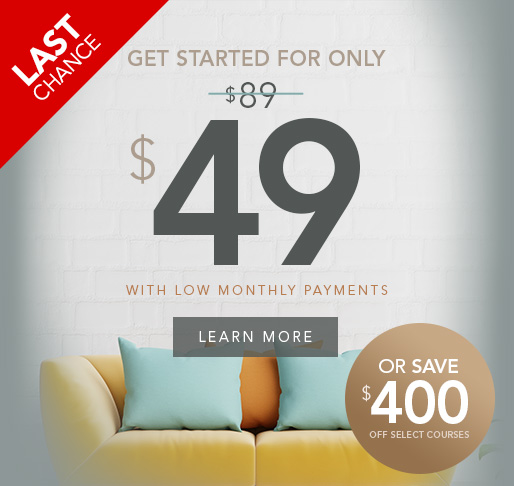
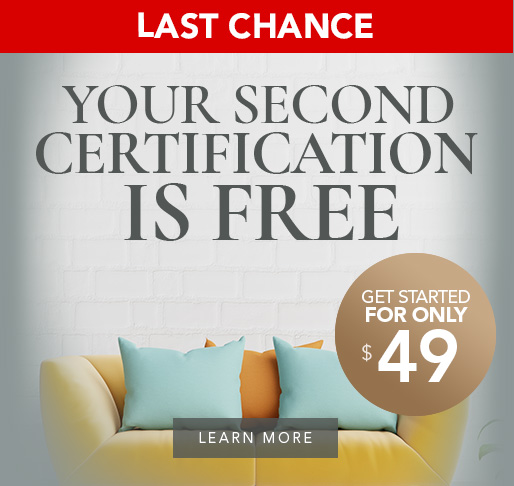
Add BOGO promo code to design and add student cart images

diff --git a/src/pages/event/student/index.tsx b/src/pages/event/student/index.tsx
@@ -5,22 +5,26 @@ import { useDateContext } from '../../../hooks/useDateContext';
 import { dateOverride } from '../../../lib/dateOverride';
 import { courseGroups } from '../courseGroups';
 import { Guarantee } from '../Guarantee';
+import { Promo } from './Promo';
 
 const Student: React.FC = () => {
   const serverDate = useDateContext();
   const date = dateOverride() ?? serverDate;
 
   return (
-    <Form
-      courseGroups={courseGroups}
-      school="QC Event School"
-      guarantee={() => <Guarantee />}
-      agreementLink="https://www.qceventplanning.com/enrollment-agreement.html"
-      agreementLinkGB="https://www.qceventplanning.com/enrollment-agreement-gb.html"
-      successLink="https://www.qceventplanning.com/welcome-to-the-school/"
-      student={true}
-      showPromoCodeInput={date.getTime() >= Date.UTC(2021, 5, 9, 13)}
-    />
+    <>
+      <Promo />
+      <Form
+        courseGroups={courseGroups}
+        school="QC Event School"
+        guarantee={() => <Guarantee />}
+        agreementLink="https://www.qceventplanning.com/enrollment-agreement.html"
+        agreementLinkGB="https://www.qceventplanning.com/enrollment-agreement-gb.html"
+        successLink="https://www.qceventplanning.com/welcome-to-the-school/"
+        student={true}
+        showPromoCodeInput={date.getTime() >= Date.UTC(2021, 5, 9, 13)}
+      />
+    </>
   );
 };
 

diff --git a/src/pages/makeup/student/index.tsx b/src/pages/makeup/student/index.tsx
@@ -3,24 +3,28 @@ import React from 'react';
 import { Form } from '../../../components/Form';
 import { courseGroups } from '../courseGroups';
 import { Guarantee } from '../Guarantee';
+import { Promo } from './Promo';
 
 const additionalOptions = {
   studentDiscount: true,
 };
 
 const Student: React.FC = () => (
-  <Form
-    courseGroups={courseGroups}
-    school="QC Makeup Academy"
-    guarantee={() => <Guarantee />}
-    student={true}
-    agreementLink="https://www.qcmakeupacademy.com/enrollment-agreement.html"
-    agreementLinkGB="https://www.qcmakeupacademy.com/enrollment-agreement-gb.html"
-    successLink="https://www.qcmakeupacademy.com/welcome-to-the-school/"
-    showDynamicCourseDescriptions={true}
-    showPromoCodeInput={true}
-    additionalOptions={additionalOptions}
-  />
+  <>
+    <Promo />
+    <Form
+      courseGroups={courseGroups}
+      school="QC Makeup Academy"
+      guarantee={() => <Guarantee />}
+      student={true}
+      agreementLink="https://www.qcmakeupacademy.com/enrollment-agreement.html"
+      agreementLinkGB="https://www.qcmakeupacademy.com/enrollment-agreement-gb.html"
+      successLink="https://www.qcmakeupacademy.com/welcome-to-the-school/"
+      showDynamicCourseDescriptions={true}
+      showPromoCodeInput={true}
+      additionalOptions={additionalOptions}
+    />
+  </>
 );
 
 export default Student;

diff --git a/src/pages/wellness/index.tsx b/src/pages/wellness/index.tsx
@@ -11,6 +11,7 @@ import { Header } from './Header';
 
 import './style.scss';
 
+const Student = React.lazy(async () => import('./student'));
 const Wellness150Off = React.lazy(async () => import('./150-off'));
 const Wellness100Off = React.lazy(async () => import('./100-off'));
 const Wellness50Off = React.lazy(async () => import('./50-off'));
@@ -40,6 +41,7 @@ const Wellness: React.FC = () => {
       </Helmet>
       <Header countryCode={address.countryCode} link={headerLink(location.pathname)} />
       <Routes>
+        <Route path="/student/" element={<Student />} />
         <Route path="/150-off" element={<Suspense fallback={<></>}><Wellness150Off currencyCode={currencyCode} /></Suspense>} />
         <Route path="/100-off" element={<Suspense fallback={<></>}><Wellness100Off currencyCode={currencyCode} /></Suspense>} />
         <Route path="/50-off" element={<Suspense fallback={<></>}><Wellness50Off currencyCode={currencyCode} /></Suspense>} />

diff --git a/src/pages/wellness/student/index.tsx b/src/pages/wellness/student/index.tsx
@@ -5,19 +5,19 @@ import { courseGroups } from '../courseGroups';
 import { Guarantee } from '../Guarantee';
 import { Promo } from './Promo';
 
-const Student: React.FC = () => (
+const Default: React.FC = () => (
   <>
     <Promo />
     <Form
       courseGroups={courseGroups}
-      school="QC Design School"
+      school="QC Wellness Studies"
       guarantee={() => <Guarantee />}
-      agreementLink="https://www.qcdesignschool.com/enrollment-agreement.html"
-      agreementLinkGB="https://www.qcdesignschool.com/enrollment-agreement-gb.html"
-      successLink="https://www.qcdesignschool.com/welcome-to-the-school/"
+      agreementLink="https://www.qcwellnessstudies.com/enrollment-agreement"
+      agreementLinkGB="https://www.qcwellnessstudies.com/enrollment-agreement-gb"
+      successLink="https://www.qcwellnessstudies.com/welcome-to-the-school/"
       student={true}
     />
   </>
 );
 
-export default Student;
+export default Default;

diff --git a/src/pages/design/student/Promo.tsx b/src/pages/design/student/Promo.tsx
@@ -1,0 +1,33 @@
+import React, { ReactElement } from 'react';
+import { useScreenWidthContext } from '../../../hooks/useScreenWidthContext';
+
+export const Promo = (): ReactElement => {
+  const screenWidth = useScreenWidthContext();
+  const desktop = screenWidth >= 576;
+
+  let image: string;
+  let width: number;
+  let height: number;
+
+  if (desktop) {
+    image = require('./desktop.jpg');
+  } else {
+    image = require('./mobile.jpg');
+  }
+
+  if (desktop) {
+    width = 1060;
+    height = 401;
+  } else {
+    width = 600;
+    height = 390;
+  }
+
+  return (
+    <section id="promoSection" style={{ backgroundColor: '#b3b4b8', padding: 0 }}>
+      <div className="container text-center px-0">
+        <img src={image} width={width} height={height} className="img-fluid d-block mx-auto" alt="Special Offer" />
+      </div>
+    </section>
+  );
+};

diff --git a/src/pages/event/student/Promo.tsx b/src/pages/event/student/Promo.tsx
@@ -1,0 +1,33 @@
+import React, { ReactElement } from 'react';
+import { useScreenWidthContext } from '../../../hooks/useScreenWidthContext';
+
+export const Promo = (): ReactElement => {
+  const screenWidth = useScreenWidthContext();
+  const desktop = screenWidth >= 576;
+
+  let image: string;
+  let width: number;
+  let height: number;
+
+  if (desktop) {
+    image = require('./desktop.jpg');
+  } else {
+    image = require('./mobile.jpg');
+  }
+
+  if (desktop) {
+    width = 1060;
+    height = 401;
+  } else {
+    width = 600;
+    height = 390;
+  }
+
+  return (
+    <section id="promoSection" style={{ backgroundColor: '#727274', padding: 0 }}>
+      <div className="container text-center px-0">
+        <img src={image} width={width} height={height} className="img-fluid d-block mx-auto" alt="Special Offer" />
+      </div>
+    </section>
+  );
+};

diff --git a/src/pages/makeup/student/Promo.tsx b/src/pages/makeup/student/Promo.tsx
@@ -1,0 +1,33 @@
+import React, { ReactElement } from 'react';
+import { useScreenWidthContext } from '../../../hooks/useScreenWidthContext';
+
+export const Promo = (): ReactElement => {
+  const screenWidth = useScreenWidthContext();
+  const desktop = screenWidth >= 576;
+
+  let image: string;
+  let width: number;
+  let height: number;
+
+  if (desktop) {
+    image = require('./desktop.jpg');
+  } else {
+    image = require('./mobile.jpg');
+  }
+
+  if (desktop) {
+    width = 1060;
+    height = 401;
+  } else {
+    width = 600;
+    height = 390;
+  }
+
+  return (
+    <section id="promoSection" style={{ backgroundColor: '#2b2b2b', padding: 0 }}>
+      <div className="container text-center px-0">
+        <img src={image} width={width} height={height} className="img-fluid d-block mx-auto" alt="Special Offer" />
+      </div>
+    </section>
+  );
+};

diff --git a/src/pages/pet/student/Promo.tsx b/src/pages/pet/student/Promo.tsx
@@ -1,0 +1,33 @@
+import React, { ReactElement } from 'react';
+import { useScreenWidthContext } from '../../../hooks/useScreenWidthContext';
+
+export const Promo = (): ReactElement => {
+  const screenWidth = useScreenWidthContext();
+  const desktop = screenWidth >= 576;
+
+  let image: string;
+  let width: number;
+  let height: number;
+
+  if (desktop) {
+    image = require('./desktop.jpg');
+  } else {
+    image = require('./mobile.jpg');
+  }
+
+  if (desktop) {
+    width = 1060;
+    height = 401;
+  } else {
+    width = 600;
+    height = 390;
+  }
+
+  return (
+    <section id="promoSection" style={{ backgroundColor: '#605960', padding: 0 }}>
+      <div className="container text-center px-0">
+        <img src={image} width={width} height={height} className="img-fluid d-block mx-auto" alt="Special Offer" />
+      </div>
+    </section>
+  );
+};

diff --git a/src/pages/wellness/student/Promo.tsx b/src/pages/wellness/student/Promo.tsx
@@ -1,0 +1,33 @@
+import React, { ReactElement } from 'react';
+import { useScreenWidthContext } from '../../../hooks/useScreenWidthContext';
+
+export const Promo = (): ReactElement => {
+  const screenWidth = useScreenWidthContext();
+  const desktop = screenWidth >= 576;
+
+  let image: string;
+  let width: number;
+  let height: number;
+
+  if (desktop) {
+    image = require('./desktop.jpg');
+  } else {
+    image = require('./mobile.jpg');
+  }
+
+  if (desktop) {
+    width = 1060;
+    height = 401;
+  } else {
+    width = 600;
+    height = 390;
+  }
+
+  return (
+    <section id="promoSection" style={{ backgroundColor: '#c4c4c4', padding: 0 }}>
+      <div className="container text-center px-0">
+        <img src={image} width={width} height={height} className="img-fluid d-block mx-auto" alt="Special Offer" />
+      </div>
+    </section>
+  );
+};

diff --git a/src/pages/pet/student/index.tsx b/src/pages/pet/student/index.tsx
@@ -1,19 +1,13 @@
 import React from 'react';
-import { Link } from 'react-router-dom';
 
 import { Form } from '../../../components/Form';
 import { courseGroups } from '../courseGroups';
 import { Guarantee } from '../Guarantee';
+import { Promo } from './Promo';
 
 const Default: React.FC = () => (
   <>
-    <section>
-      <div className="container text-center">
-        <h1>Enrollment Form for Current and Past Students</h1>
-        <p className="lead">If you&apos;re a current or past student of QC, use this form to enroll in courses at 50% off.</p>
-        <p>Enrollment history will be verified. If you are not a current or past student of QC, please use the <Link to="/">standard enrollment form</Link>.</p>
-      </div>
-    </section>
+    <Promo />
     <Form
       courseGroups={courseGroups}
       school="QC Pet Studies"

diff --git a/src/pages/design/default/index.tsx b/src/pages/design/default/index.tsx
@@ -29,7 +29,7 @@ const Default = ({ courses, currencyCode }: Props): ReactElement => {
         agreementLinkGB="https://www.qcdesignschool.com/enrollment-agreement-gb.html"
         successLink="https://www.qcdesignschool.com/welcome-to-the-school/"
         dynamicCourseMessages={[ () => <DynamicMessage date={date} courses={courses} /> ]}
-        promoCodeDefault={date.getTime() >= Date.UTC(2022, 1, 15, 14, 30) ? '' : 'BOGO'}
+        promoCodeDefault="BOGO"
       />
     </>
   );
